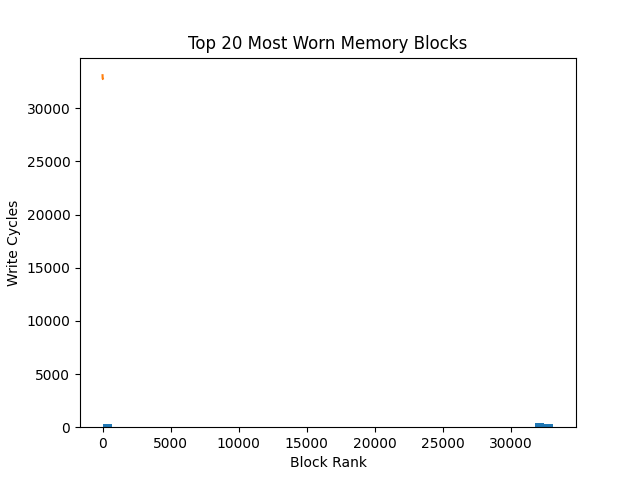
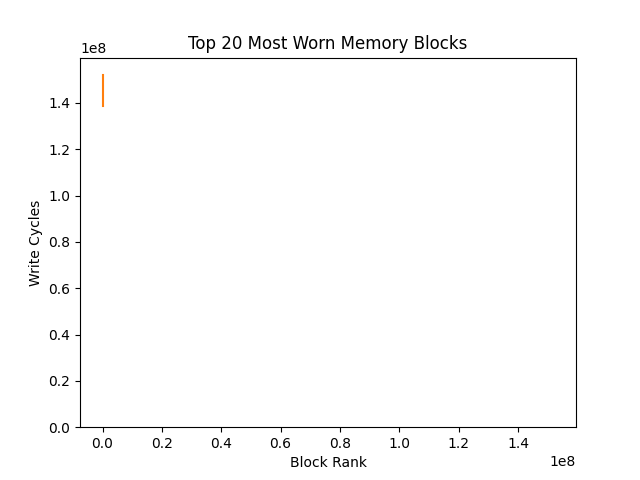
inference_only

diff --git a/src/dnn_model.py b/src/dnn_model.py
@@ -1,34 +1,77 @@
 import torch
-import torchvision.models as models
+import torch.nn as nn
+
+from utils import MODEL_MAP
 
 class DNNModel:
 
-    def __init__(self):
+    def __init__(self, name):
+        if name not in MODEL_MAP:
+            raise ValueError(f"Unknown model: {name}")
+        self.model = MODEL_MAP[name]()
+        self.model.eval()
 
-        # load a real network
-        self.model = models.resnet18()
+        # self.dummy_input = torch.randn(1, 3, 224, 224)
 
+    # Calculate the memory access per inference
     def generate_access_pattern(self):
 
         accesses = []
 
-        for name, layer in self.model.named_modules():
+        def hook_fn(module, input, output):
 
-            if isinstance(layer, torch.nn.Conv2d):
-
-                weight_access = layer.weight.numel()
-                activation_access = layer.out_channels * 32 * 32    # just checking -hardcoded for now
-
-                total_writes = weight_access + activation_access
-
+            if isinstance(module, nn.Conv2d):
+                
+                weight_access = module.weight.numel()   # weight accesses
+                input_access = input[0].numel()         # input activations                
+                output_access = output.numel()          # output activations
+                total_writes = weight_access + input_access + output_access
                 accesses.append(total_writes)
 
-            elif isinstance(layer, torch.nn.Linear):
+            elif isinstance(module, nn.Linear):
+                # forgot to count input
+                input_access = input[0].numel()
+                weight_access = module.weight.numel()
+                output_access = output.numel()
+                accesses.append(weight_access + input_access + output_access)
 
-                weight_access = layer.weight.numel()
-                accesses.append(weight_access)
+        hooks = []
+
+        for layer in self.model.modules():
+            hooks.append(layer.register_forward_hook(hook_fn))
+
+        # dummy input (ImageNet/CIFAR-10)
+        x = torch.randn(1, 3, 224, 224)
+        self.model(x)
+
+        # remove hooks
+        for h in hooks:
+            h.remove()
 
         return accesses
+
+
+
+    # def generate_access_pattern(self):
+
+    #     accesses = []
+    #     for name, layer in self.model.named_modules():
+
+    #         if isinstance(layer, torch.nn.Conv2d):
+
+    #             weight_access = layer.weight.numel()
+    #             activation_access = layer.out_channels * 32 * 32    # just checking -hardcoded for now
+
+    #             total_writes = weight_access + activation_access
+
+    #             accesses.append(total_writes)
+
+    #         elif isinstance(layer, torch.nn.Linear):
+
+    #             weight_access = layer.weight.numel()
+    #             accesses.append(weight_access)
+
+    #     return accesses
 
         
 # import random

diff --git a/src/simulator.py b/src/simulator.py
@@ -3,42 +3,42 @@ from dnn_model import DNNModel
 from memory_model import FeRAMMemory
 from wear_leveling import wear_level
 from dual_mode import configure_modes
+from utils import NUM_BLOCKS
 
 class Simulator:
 
     def __init__(self):
-
+        # 1 block size = 256 KB
+        # 112 blocks   = 28MB SRAM
         self.memory = FeRAMMemory(
-            num_blocks=1024,
-            endurance_limit=10**6
+            num_blocks=NUM_BLOCKS,
+            endurance_limit=10**12
         )
-
-        configure_modes(self.memory)    # randomly assign volatile mode
+        configure_modes(self.memory)    # randomly assigning volatile mode
 
     def run_training(self, model_name):
 
         print("Start Training run")
-        # model = DNNModel(model_name)
-        model = DNNModel()
+        model = DNNModel(model_name)
 
         trainings = 0
 
+        accesses = model.generate_access_pattern()
+        print(accesses)
+
         while not self.memory.is_failed():
 
-            accesses = model.generate_access_pattern()  # generate random write count for each layer
-
             for writes in accesses:
-
-                for _ in range(writes):
-
-                    block = random.randint(0, 1023) # Pick a random block
-
-                    self.memory.write(block)
+                block = random.randint(0, NUM_BLOCKS-1)
+                self.memory.write_bulk(block, writes)
+                # for _ in range(writes):
+                #     block = random.randint(0, 1023) # Pick a random block
+                #     self.memory.write(block)
 
             wear_level(self.memory)
 
             trainings += 1
-            if trainings == 2 :
+            if trainings > 1000:
                 break
 
         return trainings

diff --git a/src/main.py b/src/main.py
@@ -1,12 +1,28 @@
 from simulator import Simulator
+from utils import MODEL_MAP
+
+import argparse
 import plots
 
-sim = Simulator()   # initializes FeRAM memory
 
-result = sim.run_training("ResNet20")   # runs training until memory fails (endurance limit)
+if __name__ == "__main__":
 
-print("Memory survived trainings:", result)
+    # Parse command line args
+    parser = argparse.ArgumentParser()
+    parser.add_argument("dnn_model",
+                        type=str.lower,
+                        choices = MODEL_MAP.keys(),
+                        help = "Choose the DNN model")
+    args = parser.parse_args()
+    print(f"Selected model: {args.dnn_model}")
 
-# plot memory wear distribution
-plots.plot_wear(sim.memory)
-plots.plot_top_blocks(sim.memory)
+
+    # start simulator
+    sim = Simulator()   # initializes FeRAM memory
+    result = sim.run_training(args.dnn_model)   # runs training until memory fails (endurance limit)
+    print("Memory survived trainings:", result)
+
+
+    # plot memory wear distribution
+    plots.plot_wear(sim.memory)
+    plots.plot_top_blocks(sim.memory)

diff --git a/src/utils.py b/src/utils.py
@@ -1,0 +1,8 @@
+import torchvision.models as models
+
+MODEL_MAP = {
+            "resnet18": models.resnet18,
+            # "resnet20": models.resnet20,
+        }
+
+NUM_BLOCKS = 112

diff --git a/src/memory_model.py b/src/memory_model.py
@@ -9,9 +9,13 @@ class FeRAMMemory:
         # mode: nonvolatile or volatile
         self.mode = ["nonvolatile"] * num_blocks
 
-    def write(self, block_id):
+    def write(self, block_id):      # this takes too long, so better to use write_bulk()
         if self.mode[block_id] == "nonvolatile":
             self.write_count[block_id] += 1
+
+    def write_bulk(self, block_id, count):
+        if self.mode[block_id] == "nonvolatile":
+            self.write_count[block_id] += count
 
     def is_failed(self):
         for w in self.write_count: